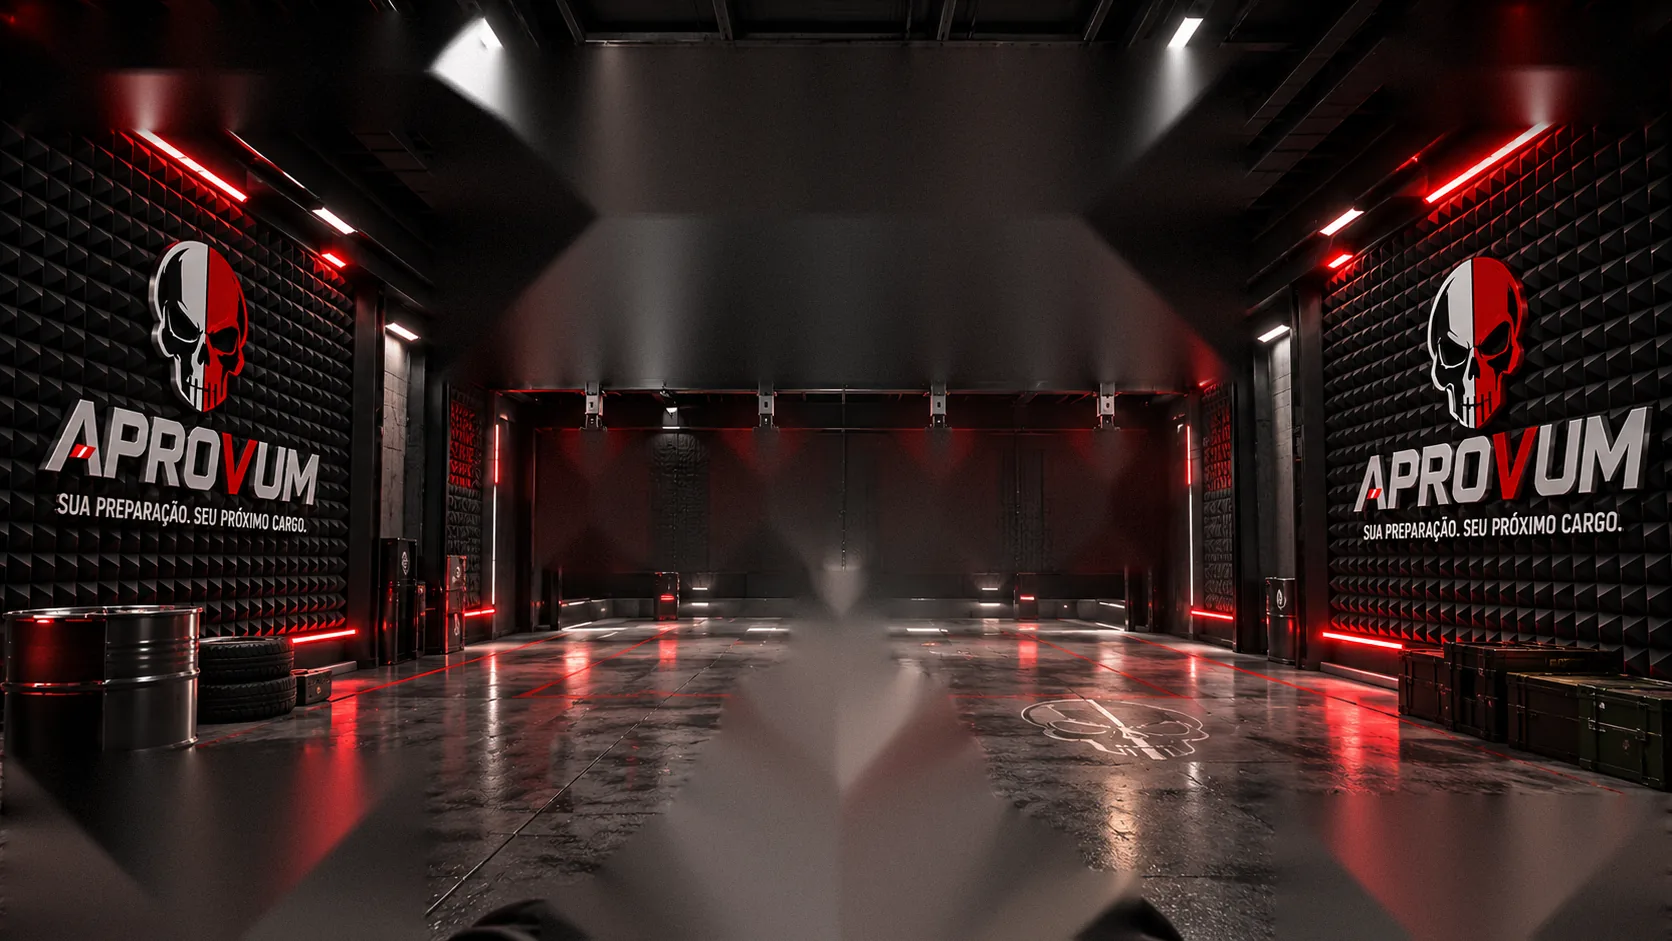
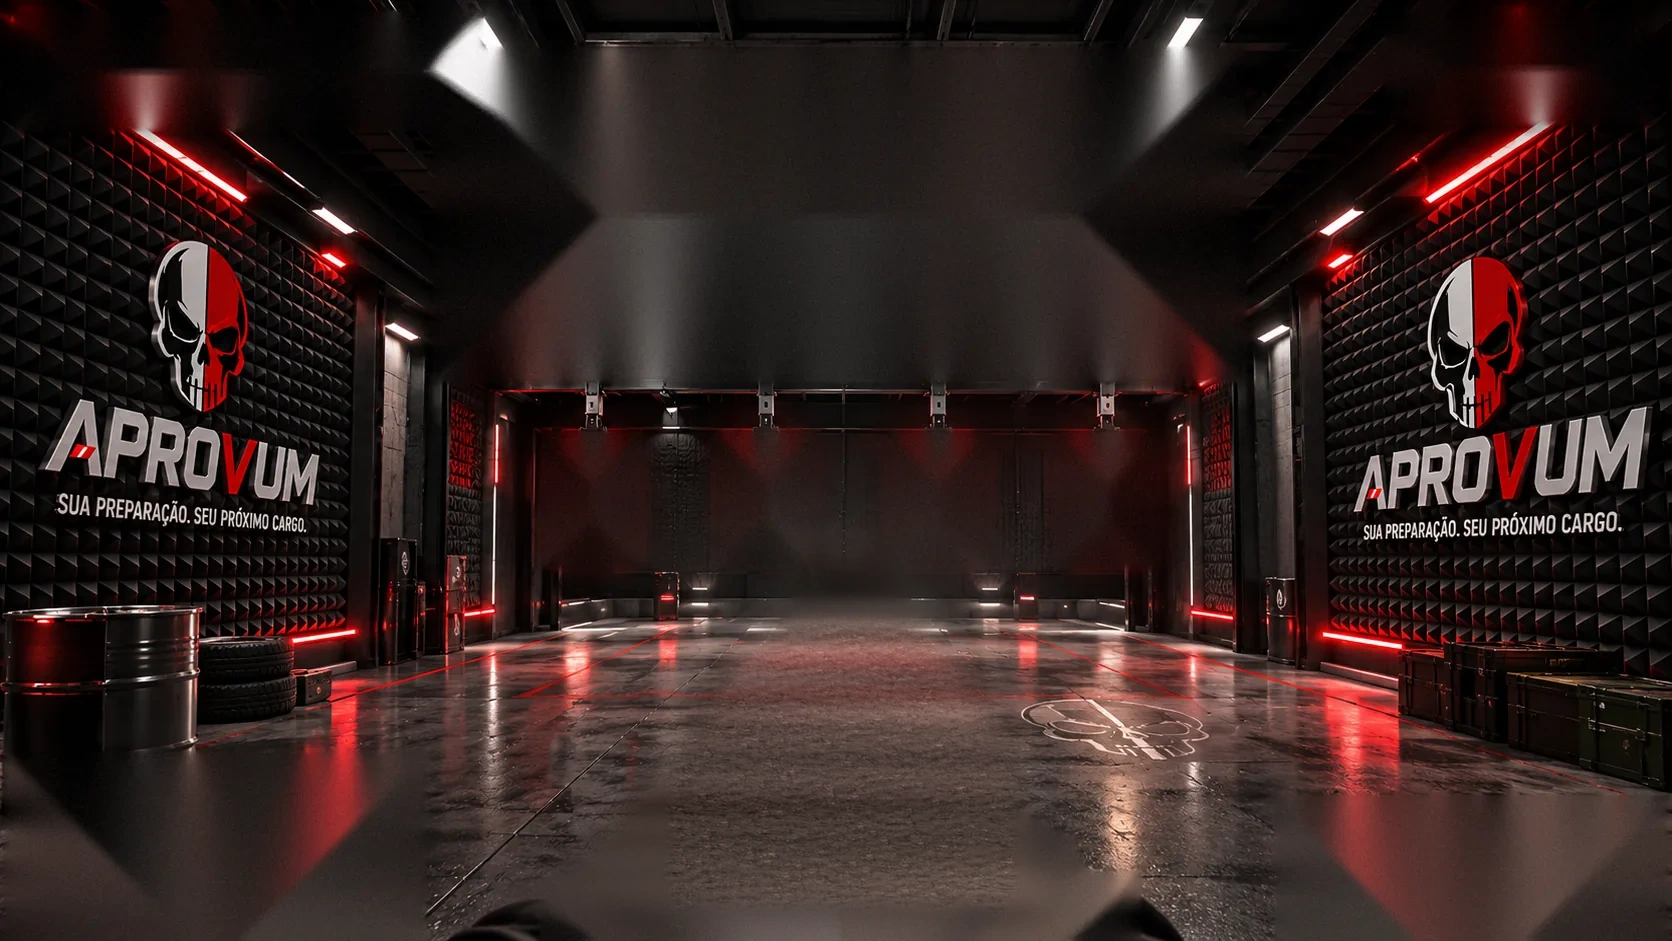
feat(tatico): lobby só com Desafiar (qualquer aluno) e Treino (admin); carregamento só após aceite; remove fantasma borrado do estande
- Sprite/estande: piso reconstruído onde havia restos borrados da arma antiga
- Lobby: removida a fila aleatória; lista de alunos já aberta; Treino só para admin

Claude-Session: https://claude.ai/code/session_01BiS7EyNpzhKpwbwB1NURPB

Changed region(s): [[0.3732, 0.6472, 0.622, 0.9554], [0.4665, 0.5855, 0.5287, 0.6472], [0.3421, 0.8937, 0.3732, 0.9554]]

diff --git a/src/app/(app)/quiz/tatico/tatico-view.tsx b/src/app/(app)/quiz/tatico/tatico-view.tsx
@@ -269,16 +269,6 @@ export function TaticoView({ inicial, nivel, admin }: { admin: boolean; inicial:
   }, [audio]);
   useEffect(() => { if (fim || s.estado === "ocioso") { audio.stop(); sairTelaCheia(); } }, [fim, s.estado, audio]);
 
-  const entrar = useCallback(async () => {
-    if (som) audio.start();
-    entrarTelaCheia();
-    setErro(null); setCarregando(true); setEsperaServidor(true);          // feedback imediato: o vídeo abre no clique
-    const r = await taticoEntrarAction();
-    setEsperaServidor(false);
-    if (!r.ok) { setErro(r.error); setCarregando(false); return; }
-    setS(r.s);
-    if (r.s.estado !== "partida" && r.s.estado !== "fila") { setCarregando(false); sairTelaCheia(); }
-  }, [setS, som, audio]);
   const entrarSolo = useCallback(async () => {
     if (som) audio.start();
     entrarTelaCheia();
@@ -318,11 +308,11 @@ export function TaticoView({ inicial, nivel, admin }: { admin: boolean; inicial:
   }
   if (fim && s.estado === "partida") return <Resultado s={s} rev={rev} onNova={() => { setS({ estado: "ocioso", usados: s.usados, limite: 3 }); setRev(null); pos.current = -1; }} />;
   return (
-    <Lobby s={s} stats={stats} erro={erro} admin={admin} onSolo={entrarSolo} onEntrar={entrar} onSair={async () => { await taticoSairFilaAction(); setS({ estado: "ocioso", usados: usadosIni, limite: 3 }); }} />
+    <Lobby s={s} stats={stats} erro={erro} admin={admin} onSolo={entrarSolo} />
   );
 }
 
-function Lobby({ s, stats, erro, admin, onSolo, onEntrar, onSair }: { admin: boolean; onSolo: () => void; s: TaticoEstado; stats: TaticoStats; erro: string | null; onEntrar: () => void; onSair: () => void }) {
+function Lobby({ s, stats, erro, admin, onSolo }: { admin: boolean; onSolo: () => void; s: TaticoEstado; stats: TaticoStats; erro: string | null }) {
   const usados = "usados" in s && typeof s.usados === "number" ? s.usados : 0;
   const esgotado = s.estado === "limite" || usados >= 3;
   const wr = stats && stats.partidas ? Math.round((100 * stats.vitorias) / stats.partidas) : 0;
@@ -334,24 +324,17 @@ function Lobby({ s, stats, erro, admin, onSolo, onEntrar, onSair }: { admin: boo
             <p style={{ fontSize: 12, letterSpacing: ".2em", color: "#e5202e", fontWeight: 800 }}>MODO JOGO · 1 x 1</p>
             <h1 style={{ fontSize: "clamp(26px,6vw,44px)", fontWeight: 900, fontStyle: "italic", lineHeight: 1.05 }}>DESAFIO TÁTICO</h1>
             <p style={{ fontSize: 14, margin: "8px auto 14px", maxWidth: 420, color: "#ddd" }}>10 questões reais contra outro aluno, ao vivo. Vitória +200 XP · derrota −100 XP. Empate vai para a morte súbita.</p>
-            {s.estado === "fila" ? (
-              <>
-                <p role="status" style={{ fontWeight: 800 }}>Procurando adversário…</p>
-                <p style={{ fontSize: 12, color: "#bbb" }}>A busca expira em 90 s sem gastar sua tentativa.</p>
-                <button onClick={onSair} className="mt-3 rounded-[10px] border border-white/40 px-4 py-2 text-[14px]">Cancelar</button>
-              </>
-            ) : esgotado ? (
+            {esgotado ? (
               <p style={{ fontWeight: 800, color: "#ffd24a" }}>Você usou os 3 desafios de hoje. Volte amanhã.</p>
             ) : s.estado === "sem_questoes" ? (
               <p style={{ fontWeight: 800, color: "#ffd24a" }}>Ainda não há questões suficientes para o desafio.</p>
             ) : (
-              <button onClick={onEntrar} data-testid="tatico-entrar" className="rounded-[10px] bg-[#c9141f] px-6 py-3 text-[16px] font-extrabold text-white shadow-[0_0_24px_rgba(229,32,46,.6)] active:scale-[.97]">ENTRAR NO ESTANDE</button>
+              <DesafiarAluno />
             )}
-            {s.estado !== "fila" && !esgotado && <DesafiarAluno />}
-            {admin && s.estado !== "fila" && (
+            {admin && (
               <div style={{ marginTop: 10 }}>
-                <button onClick={onSolo} data-testid="tatico-solo" className="rounded-[10px] border border-[#ffd24a] px-4 py-2 text-[14px] font-bold text-[#ffd24a] active:scale-[.97]">TREINO SOLO (admin)</button>
-                <p style={{ fontSize: 11, color: "#bbb", marginTop: 4 }}>Sem adversário, sem XP e sem gastar o limite diário.</p>
+                <button onClick={onSolo} data-testid="tatico-solo" className="rounded-[10px] border border-[#ffd24a] px-4 py-2 text-[14px] font-bold text-[#ffd24a] active:scale-[.97]">TREINO (admin)</button>
+                <p style={{ fontSize: 11, color: "#bbb", marginTop: 4 }}>Entra no estande sozinho, sem adversário, sem XP e sem gastar o limite diário.</p>
               </div>
             )}
             <p style={{ fontSize: 13, marginTop: 10, color: "#ccc" }}>Desafios hoje: <b>{Math.min(3, usados)}/3</b></p>
@@ -421,7 +404,7 @@ function Resultado({ s, rev, onNova }: { s: Partida; rev: TaticoRevisao; onNova:
 
 /** Escolher qual aluno desafiar: online agora primeiro, busca por nome; mostra a espera pela resposta em tempo real. */
 function DesafiarAluno() {
-  const [aberto, setAberto] = useState(false);
+  const [aberto, setAberto] = useState(true);
   const [q, setQ] = useState("");
   const [lista, setLista] = useState<AlunoBusca[]>([]);
   const [carregando, setCarregando] = useState(false);
@@ -467,7 +450,7 @@ function DesafiarAluno() {
   return (
     <div style={{ marginTop: 10 }}>
       <button onClick={() => { setAberto((v) => !v); setMsg(null); }} data-testid="tatico-desafiar-aluno" className="rounded-[10px] border border-white/60 px-5 py-2 text-[15px] font-bold text-white active:scale-[.97]">
-        {aberto ? "FECHAR" : "DESAFIAR UM ALUNO"}
+        {aberto ? "FECHAR LISTA" : "DESAFIAR UM ALUNO"}
       </button>
       {msg && <p role="alert" data-testid="tatico-msg-desafio" style={{ color: "#ffb4ba", fontSize: 13, marginTop: 6 }}>{msg}</p>}
       {aberto && (
